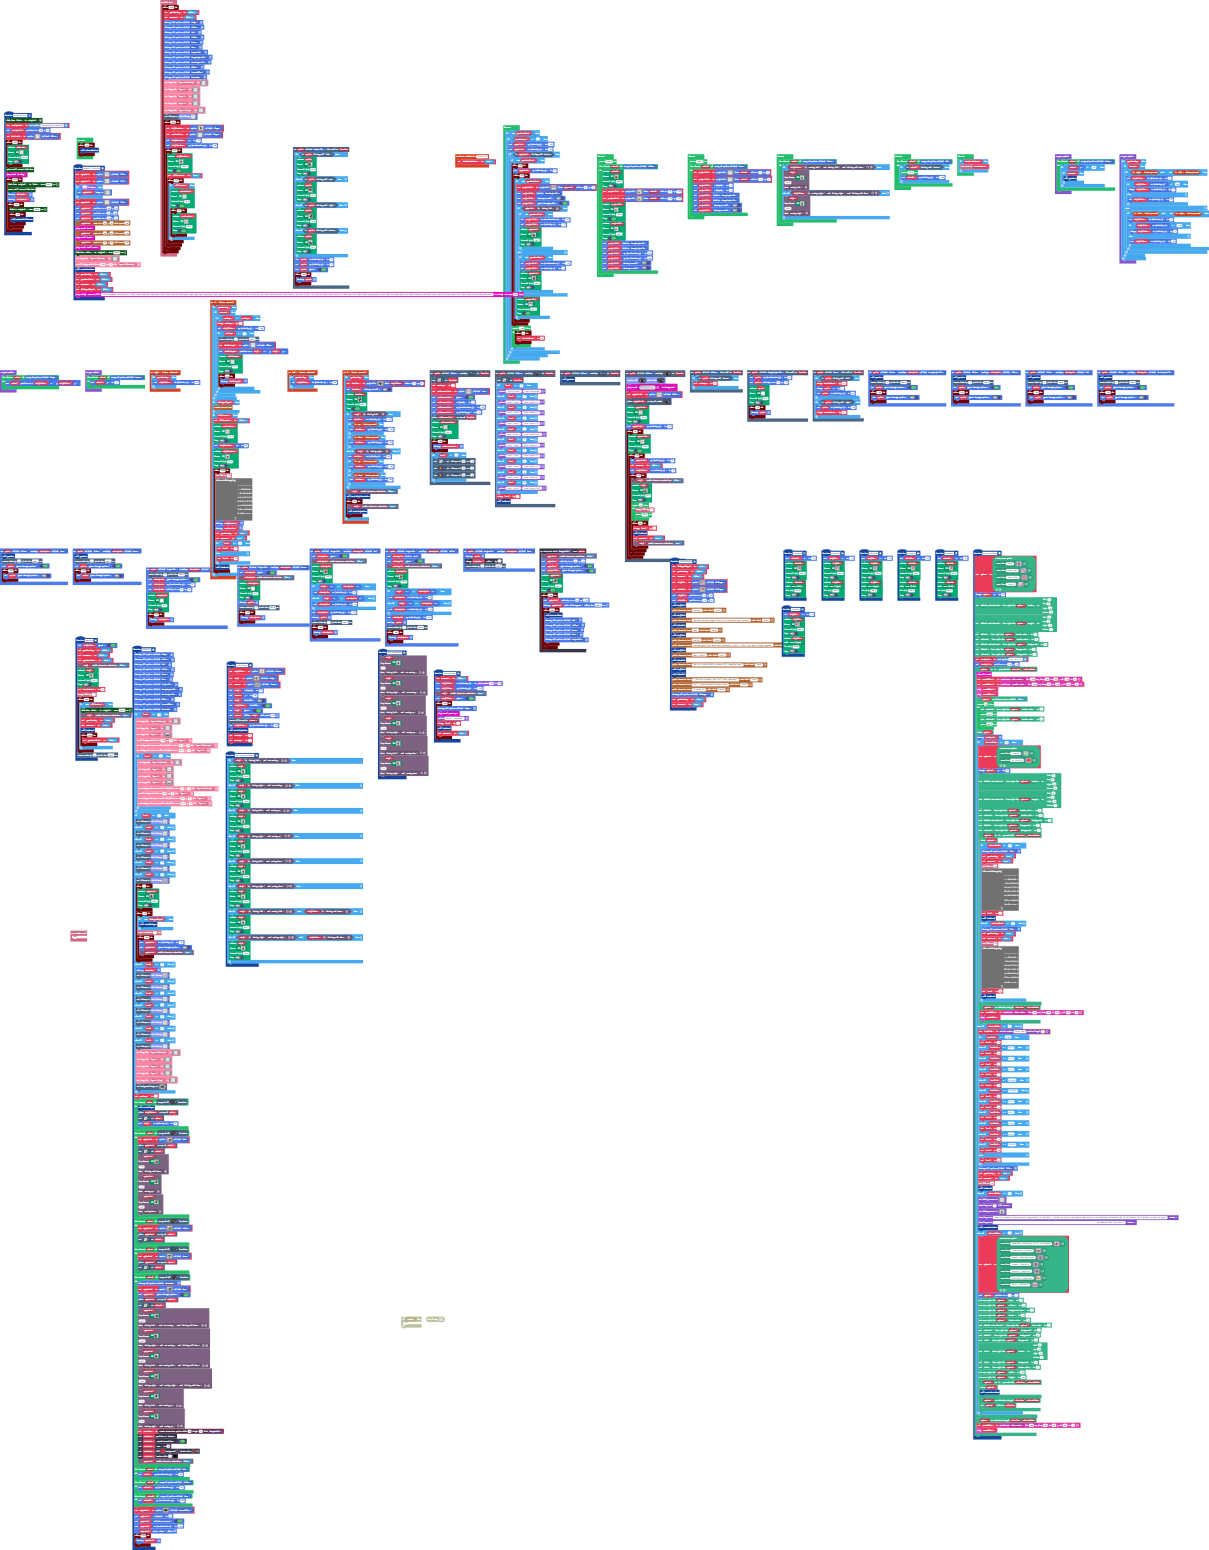
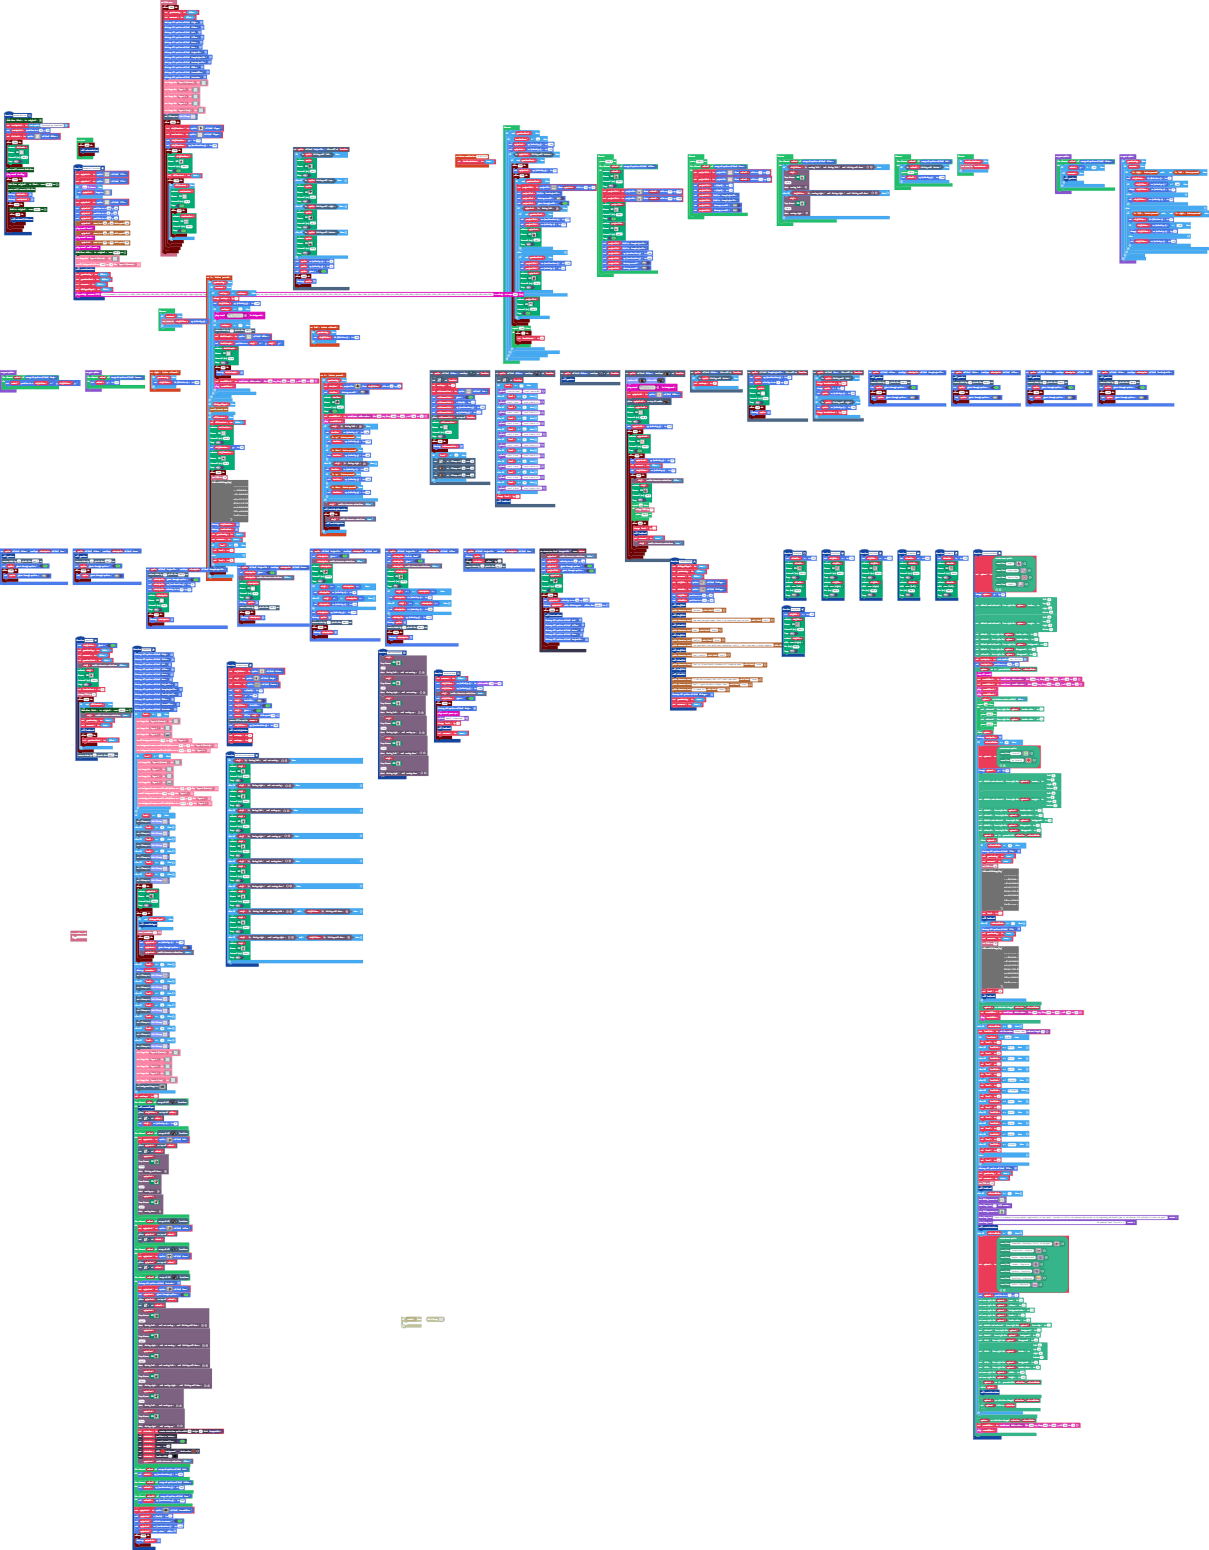
Update main.blocks, main.ts

Changed region(s): [[0.1224, 0.0929, 0.3366, 0.3716]]

diff --git a/main.ts b/main.ts
@@ -60,6 +60,8 @@ controller.B.onEvent(ControllerButtonEvent.Pressed, function () {
         100,
         true
         )
+        soundeffect5 = soundEffects.createSound(soundEffects.waveNumber(WaveType.WhiteNoise), 100, 1000, 440, 140, 0)
+        soundeffect5.play()
         if (characterAnimations.matchesRule(ninji, characterAnimations.rule(Predicate.FacingLeft))) {
             shuriken.vx = -100
             if (controller.up.isPressed()) {
@@ -203,6 +205,9 @@ controller.A.onEvent(ControllerButtonEvent.Pressed, function () {
             if (numJumps < maxJumps) {
                 numJumps += 1
                 ninjiHitbox.vy = -200
+                if (numJumps == 1) {
+                    music.playSoundEffect(music.createSoundEffect(WaveShape.Square, 400, 600, 160, 0, 100, SoundExpressionEffect.Vibrato, InterpolationCurve.Curve), SoundExpressionPlayMode.InBackground)
+                }
                 if (numJumps > 1) {
                     scene.cameraShake(2, 500)
                     doubleJumpFx = sprites.create(img`
@@ -352,6 +357,8 @@ controller.A.onEvent(ControllerButtonEvent.Pressed, function () {
                     timer.after(540, function () {
                         doubleJumpFx.destroy()
                     })
+                    soundeffect4 = soundEffects.createSound(soundEffects.waveNumber(WaveType.WhiteNoise), 200, 440, 440, 160, 0)
+                    soundeffect4.play()
                 }
             }
         }
@@ -7828,6 +7835,7 @@ let ninjiGameOver: Sprite = null
 let continueText: Sprite = null
 let allLivesLost = false
 let dialoguePlayed = false
+let soundeffect4: SoundBuffer = null
 let doubleJumpFx: Sprite = null
 let numJumps = 0
 let movement = false
@@ -7835,6 +7843,7 @@ let level = 0
 let achievementText: Sprite = null
 let maxJumps = 0
 let ninji: Sprite = null
+let soundeffect5: SoundBuffer = null
 let ninjiHitbox: Sprite = null
 let shuriken: Sprite = null
 let gameRunning = false
@@ -8355,5 +8364,10 @@ forever(function () {
 forever(function () {
     if (showBossRunCount) {
         info.setScore(bossRunCount)
+    }
+})
+forever(function () {
+    if (movement) {
+        info.setScore(ninjiHitbox.vy)
     }
 })
